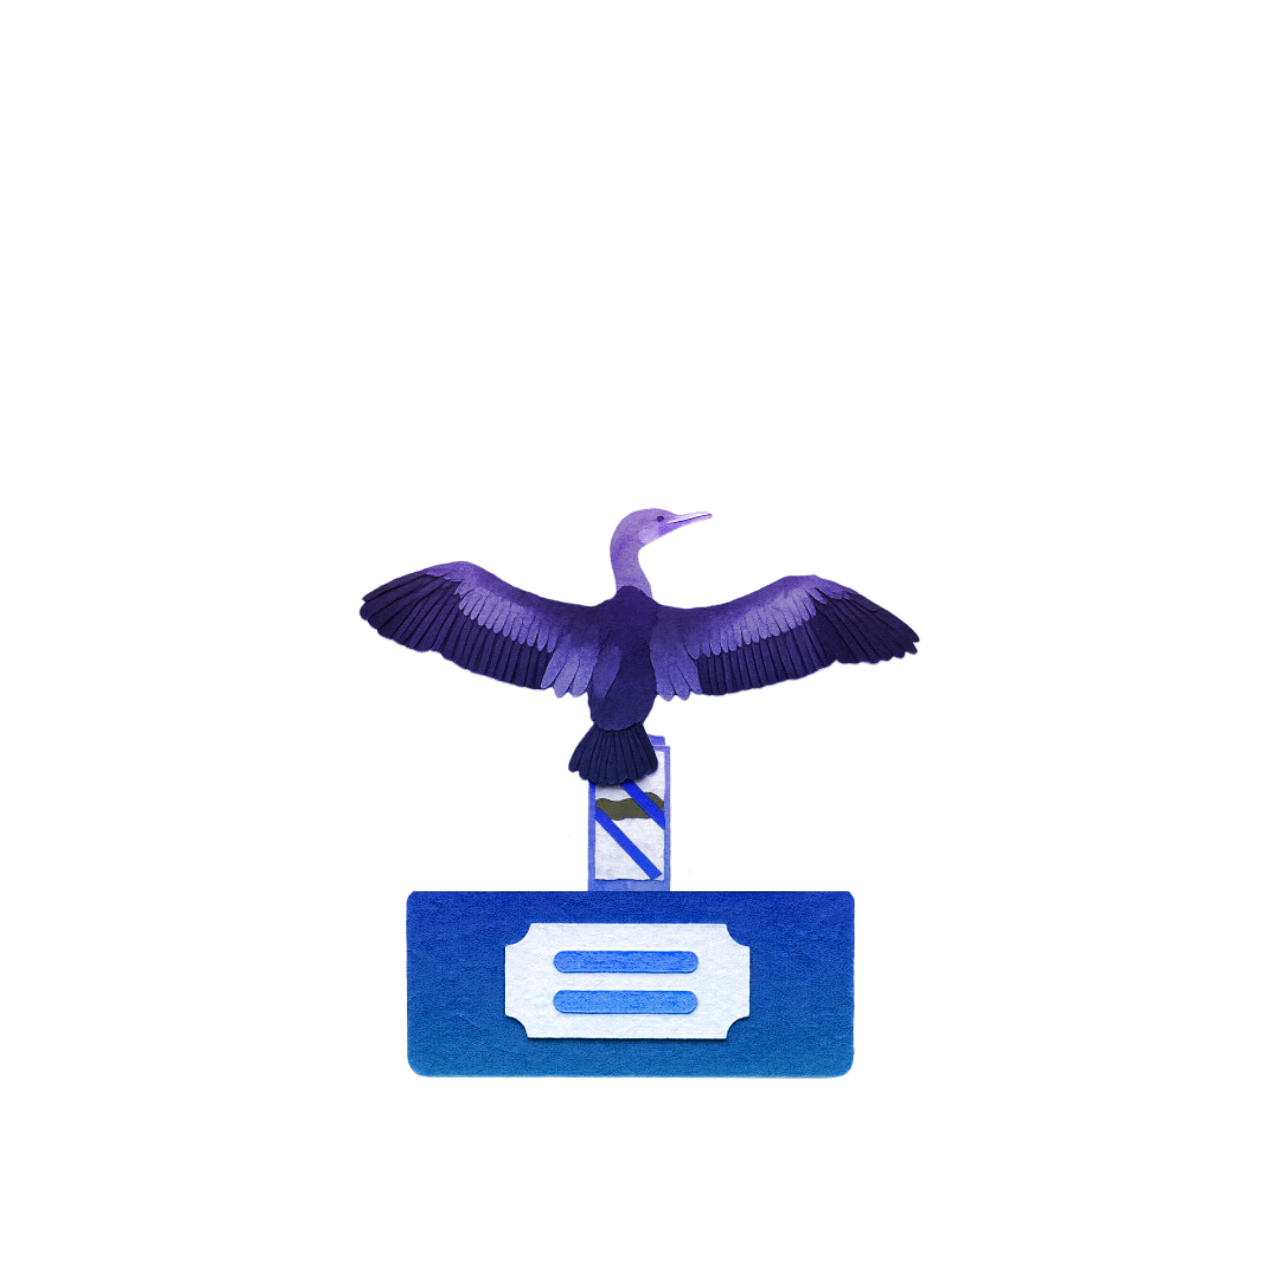
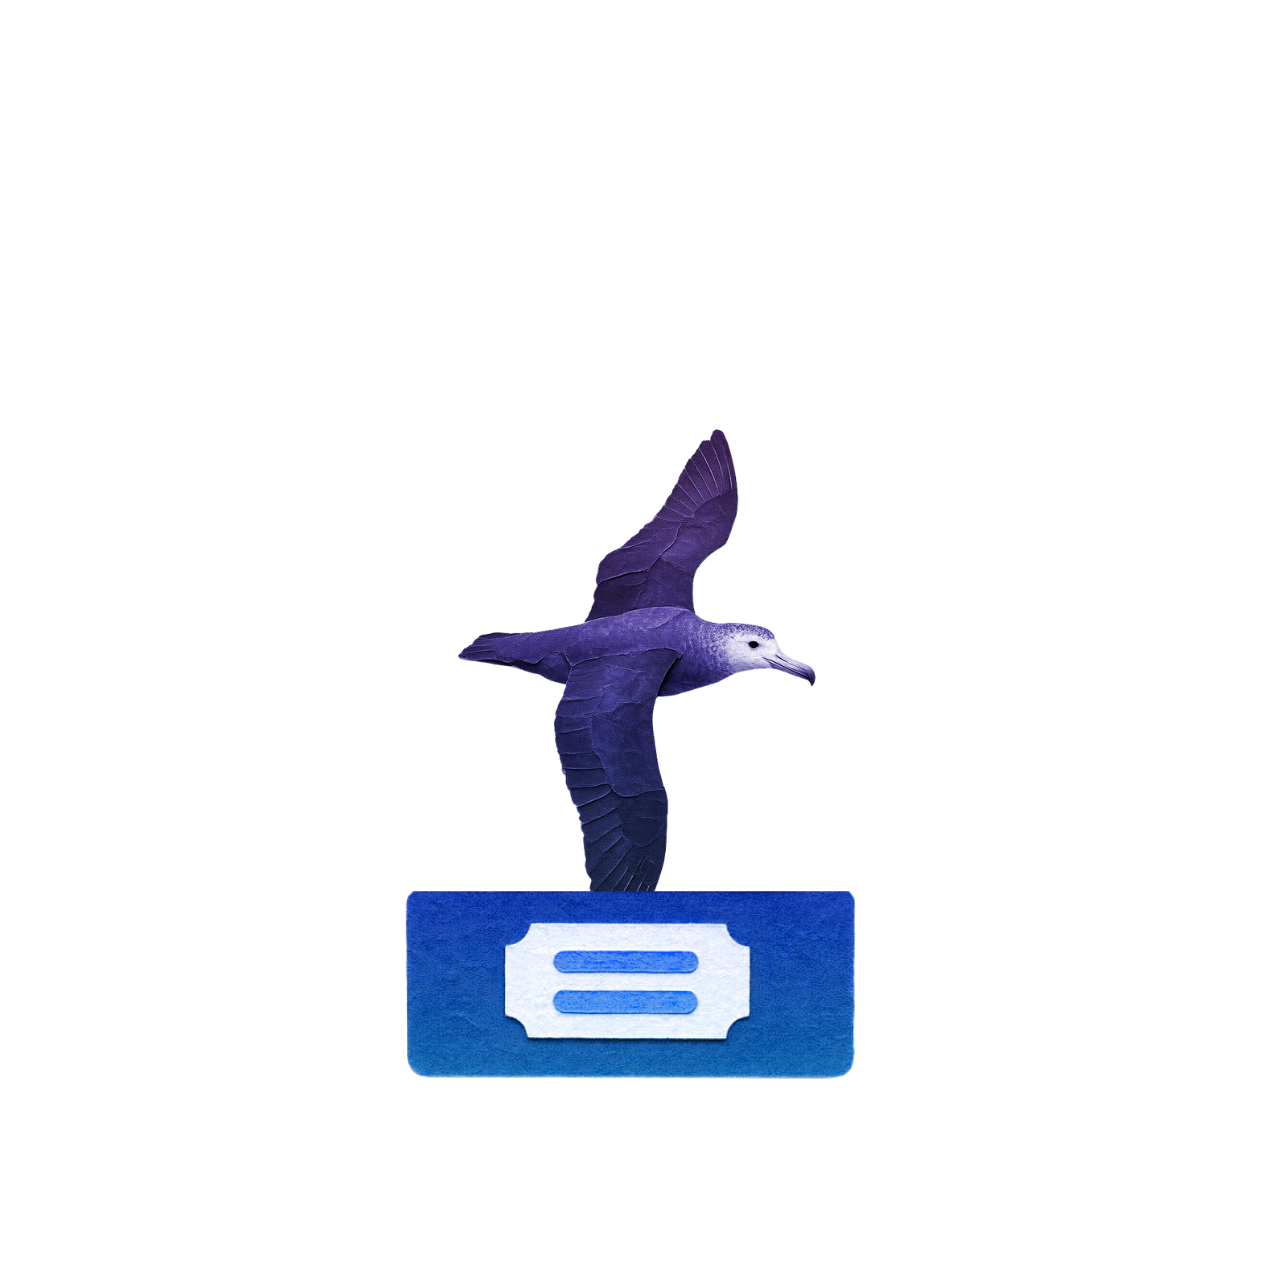
Visuels papier-craft dedies : Procellariiformes (albatros, puffins & oceanites) + Outardes & gangas. Remplace les placeholders. Cache v208.

Changed region(s): [[0.2777, 0.3394, 0.7405, 0.7097]]

diff --git a/service-worker.js b/service-worker.js
@@ -3,7 +3,7 @@
 //   puis rafraichit en background. Prochain reload = nouvelle version.
 // - Requetes cross-origin (Firestore, iNaturalist, xeno-canto, Wikipedia, etc.) : reseau seul.
 // - Bump CACHE_VERSION quand on veut invalider volontairement.
-const CACHE_VERSION = 'v207-2026-09-16-renommage-caprimulgiformes';
+const CACHE_VERSION = 'v208-2026-09-16-visuels-procellariiformes-outardes-gangas';
 const CACHE_NAME = 'lmb-' + CACHE_VERSION;
 
 self.addEventListener('install', (e) => {
